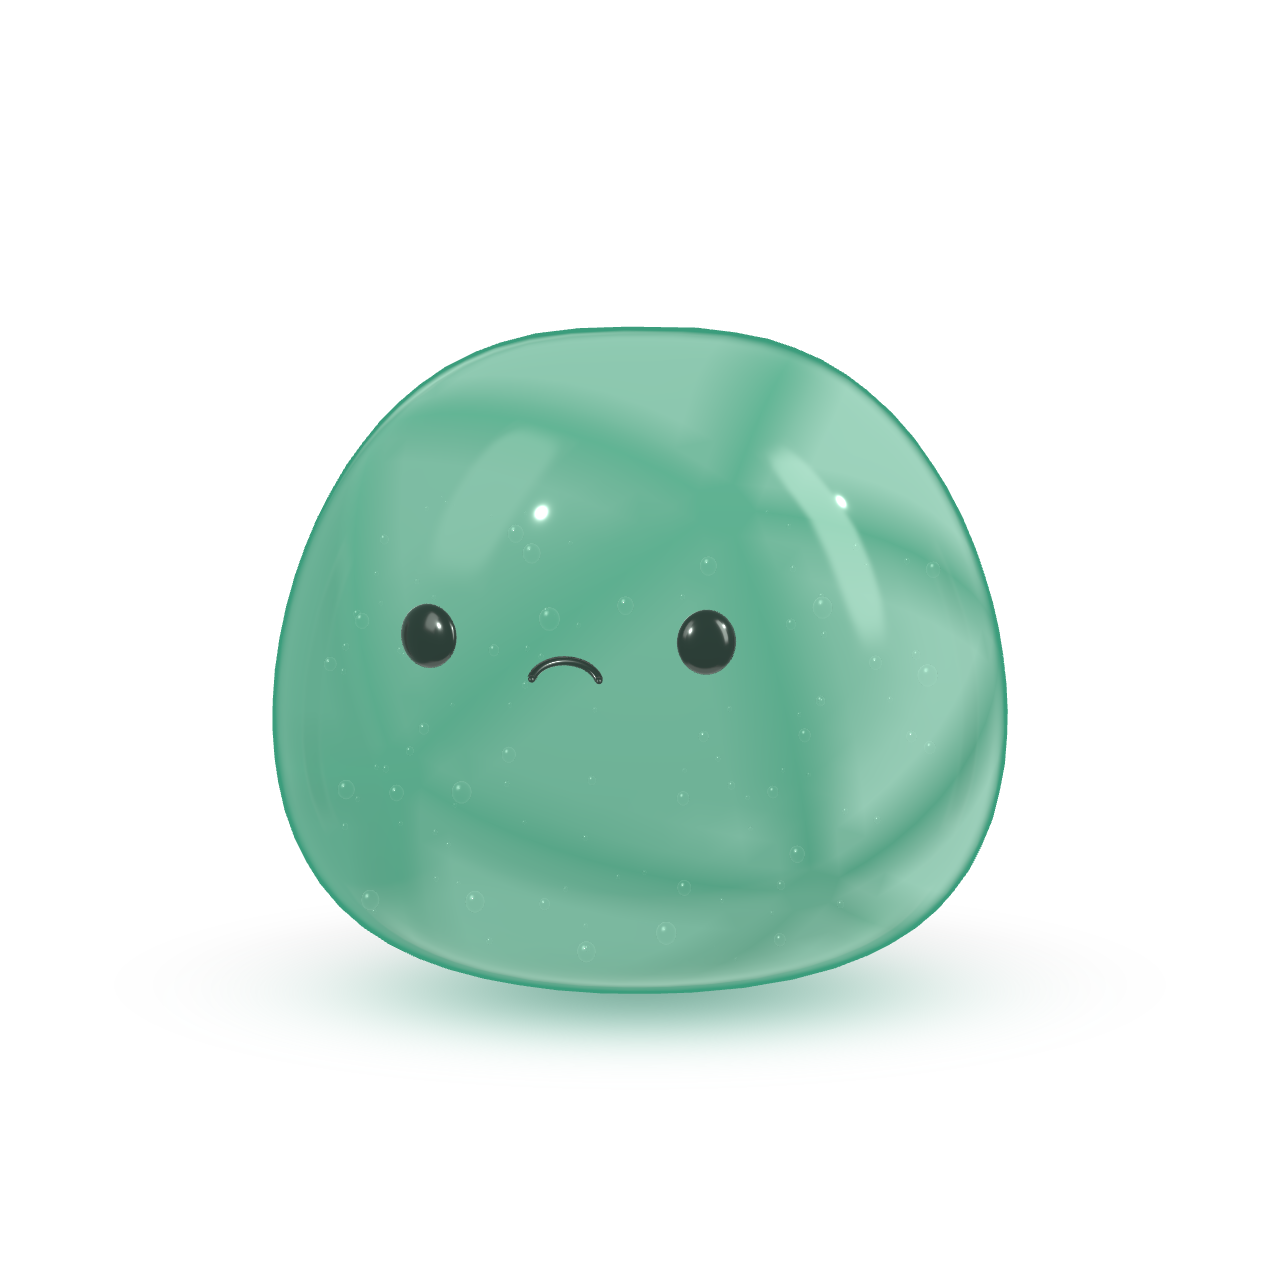
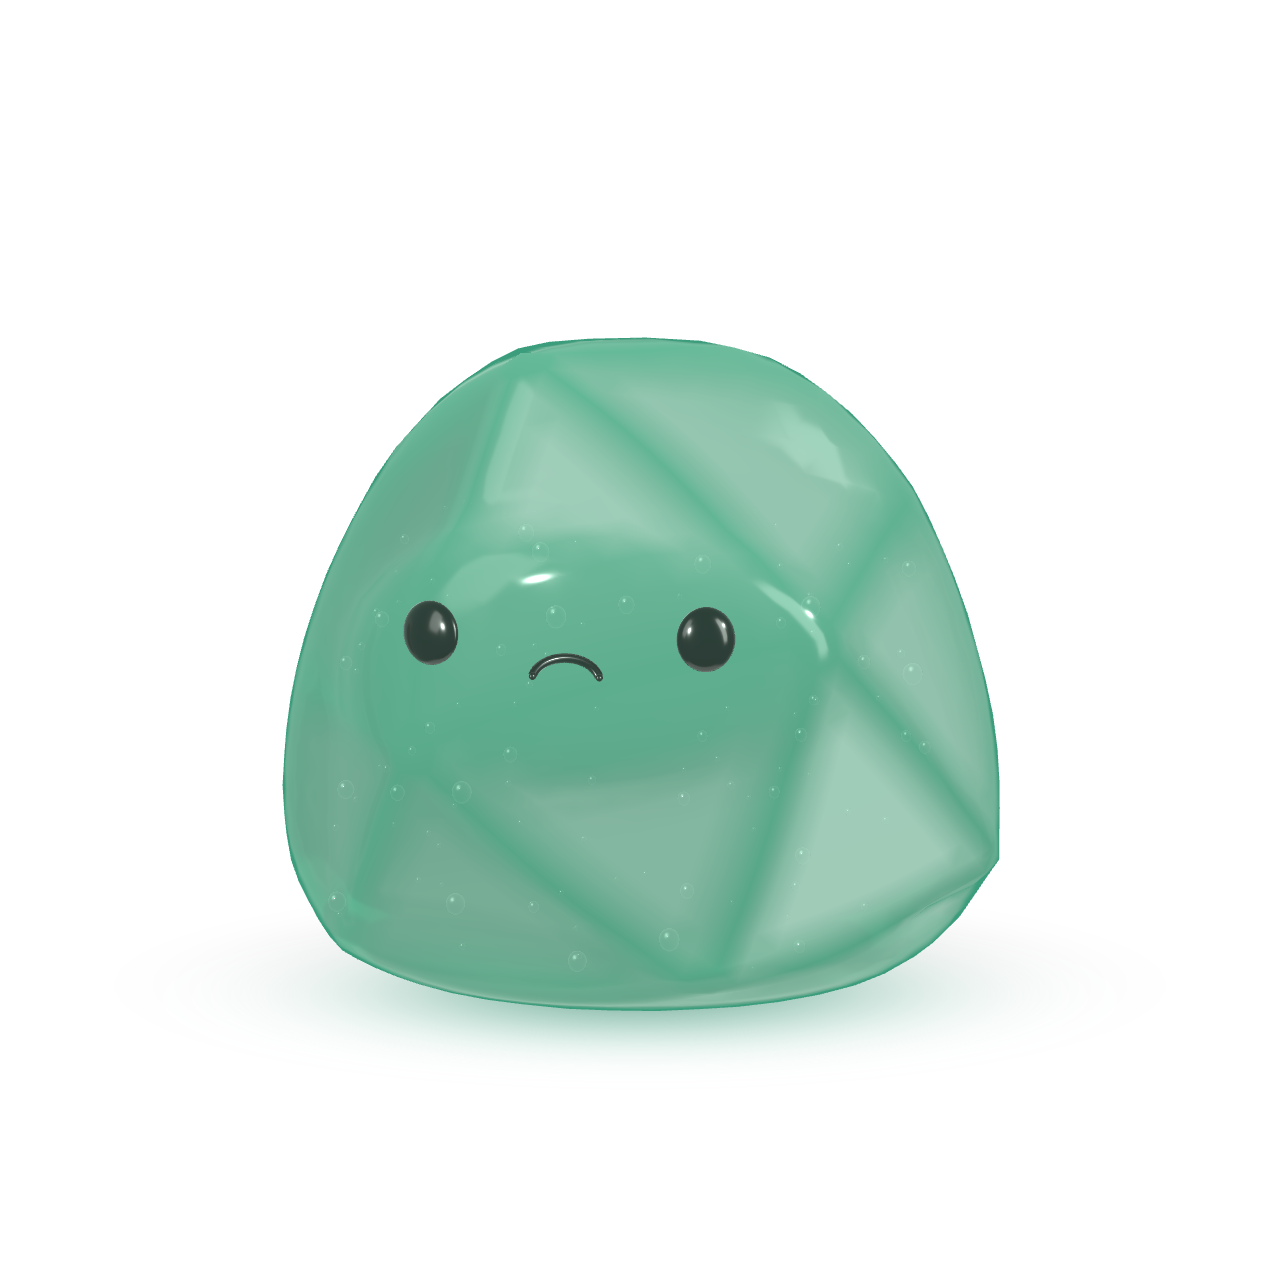
feat(web): sculpt Apo with folded sea glass planes

diff --git a/apocalypse-web/src/effects/webgpu/slime/scene.ts b/apocalypse-web/src/effects/webgpu/slime/scene.ts
@@ -35,14 +35,12 @@ import {
   cameraPosition,
   materialColor,
   mix,
-  normalLocal,
   normalView,
   normalWorld,
   pmremTexture,
   positionViewDirection,
   positionWorld,
   reflect,
-  transformNormalToView,
   uniform,
   vec3,
   vec4,
@@ -62,7 +60,6 @@ import {
   radiusAt,
   restPoint,
   seededRandom,
-  type Point3,
 } from './shape'
 import { createStudio } from './studio'
 import type { OrbState } from '@/effects/PixelOrb/types'
@@ -77,6 +74,19 @@ function scatteringColour(colours: SlimeColours) {
 }
 
 const restVertices = new WeakMap<BufferGeometry, Float32Array>()
+// Front cage faces: crown, shoulders and lower folds frame one calm facial panel.
+const panelTones: Record<number, number> = {
+  0: 0.76,
+  1: 0.63,
+  4: 0.26,
+  5: 0.62,
+  6: 0.49,
+  7: 0.29,
+  10: 0.72,
+  11: 0.4,
+  15: 0.82,
+  16: 0.33,
+}
 function remember(geometry: BufferGeometry) {
   restVertices.set(geometry, Float32Array.from(geometry.attributes.position.array))
   const attribute = geometry.attributes.position
@@ -85,20 +95,17 @@ function remember(geometry: BufferGeometry) {
 }
 
 function makeBody() {
-  // The design has a smooth silhouette and a few broad optical planes. Keep
-  // the elastic surface continuous, then blend coarse facet normals across
-  // rounded boundaries. Displacing whole triangles created visible ridges.
+  // The coarse cage defines the folded planes; its subdivisions round the
+  // joins while retaining continuous vertices for the shared soft-body field.
   const source = new IcosahedronGeometry(1, 0)
   source.rotateY(0.37)
-  source.rotateZ(0.19)
+  source.rotateZ(-0.28)
   const sourcePositions = source.getAttribute('position')
   const sourceIndices = source.getIndex()
   const positions: number[] = []
   const indices: number[] = []
   const blends: number[] = []
   const tones: number[] = []
-  const owners: number[] = []
-  const corners: [Point3, Point3, Point3][] = []
   const shared = new Map<string, number>()
   const subdivisions = 12
   const smoothstep = (a: number, b: number, x: number) => {
@@ -121,7 +128,6 @@ function makeBody() {
     const pa = restPoint(a.x, a.y, a.z)
     const pb = restPoint(b.x, b.y, b.z)
     const pc = restPoint(c.x, c.y, c.z)
-    corners.push([pa, pb, pc])
     const planeNormal = new Vector3(pb.x - pa.x, pb.y - pa.y, pb.z - pa.z)
       .cross(new Vector3(pc.x - pa.x, pc.y - pa.y, pc.z - pa.z))
       .normalize()
@@ -132,7 +138,7 @@ function makeBody() {
       0
     )
       planeNormal.negate()
-    const tone = Math.max(0.08, Math.min(0.92, 0.48 + planeNormal.x * 0.34 + planeNormal.y * 0.1))
+    const tone = panelTones[face] ?? Math.max(0.16, Math.min(0.84, 0.48 + planeNormal.x * 0.28))
     const rows: number[][] = []
     for (let i = 0; i <= subdivisions; i++) {
       const row: number[] = []
@@ -145,20 +151,24 @@ function makeBody() {
           .addScaledVector(b, wb)
           .addScaledVector(c, wc)
           .normalize()
-        const point = restPoint(direction.x, direction.y, direction.z)
+        const smooth = restPoint(direction.x, direction.y, direction.z)
+        const faceDistance = Math.hypot((smooth.x - FACE_X) / 1.04, (smooth.y - 1.55) / 0.55)
+        const faceClearance = 1 - 0.9 * (1 - smoothstep(0.7, 1.26, faceDistance))
+        const frontFold = 0.2 + 0.8 * smoothstep(0.02, 0.46, smooth.z)
+        const fold = 0.68 * frontFold * faceClearance * smoothstep(0.06, 0.36, smooth.y)
+        const point = {
+          x: smooth.x + (pa.x * wa + pb.x * wb + pc.x * wc - smooth.x) * fold,
+          y: smooth.y + (pa.y * wa + pb.y * wb + pc.y * wc - smooth.y) * fold,
+          z: smooth.z + (pa.z * wa + pb.z * wb + pc.z * wc - smooth.z) * fold,
+        }
         const key = [point.x, point.y, point.z].map((value) => Math.round(value * 1e5)).join(',')
         let index = shared.get(key)
         if (index === undefined) {
           index = positions.length / 3
           shared.set(key, index)
           positions.push(point.x, point.y, point.z)
-          owners.push(face)
           tones.push(tone)
-          const faceDistance = Math.hypot(point.x / 0.95, (point.y - 1.48) / 0.6)
-          const faceClearance =
-            point.z > 0.55 ? 0.55 * (1 - smoothstep(0.8, 1.25, faceDistance)) : 0
-          const edge = smoothstep(0, 0.18, Math.min(wa, wb, wc))
-          blends.push(edge * (1 - faceClearance) * smoothstep(0.08, 0.42, point.y) * 0.9)
+          blends.push(fold * smoothstep(0, 0.16, Math.min(wa, wb, wc)))
         }
         row.push(index)
       }
@@ -175,14 +185,11 @@ function makeBody() {
   source.dispose()
   const geometry = new BufferGeometry()
   geometry.setAttribute('position', new Float32BufferAttribute(positions, 3))
-  const facetNormal = new Float32BufferAttribute(new Float32Array(positions.length), 3)
-  facetNormal.setUsage(DynamicDrawUsage)
-  geometry.setAttribute('facetNormal', facetNormal)
   geometry.setAttribute('facetBlend', new Float32BufferAttribute(blends, 1))
   geometry.setAttribute('facetShade', new Float32BufferAttribute(tones, 1))
   geometry.setIndex(indices)
   geometry.computeVertexNormals()
-  return { geometry: remember(geometry), corners, owners }
+  return remember(geometry)
 }
 
 // Sculpted surface patches, not rigid eye meshes. Every point uses the body field.
@@ -252,28 +259,24 @@ function makeSlime(physics: JellyPhysics, environment: Texture, colours: SlimeCo
     ior: SLIME_RECIPE.ior,
     attenuationColor: colours.attenuation.clone(),
     attenuationDistance: SLIME_RECIPE.attenuationDistance,
-    clearcoat: 0.75,
-    clearcoatRoughness: 0.055,
-    specularIntensity: 0.7,
-    envMapIntensity: 0.8,
+    clearcoat: 0.62,
+    clearcoatRoughness: 0.12,
+    specularIntensity: 0.58,
+    envMapIntensity: 0.7,
   })
   const tint = uniform(gel.attenuationColor)
-  const facetDark = uniform(colours.attenuation.clone().lerp(colours.shadow, 0.25))
-  const facetLight = uniform(colours.body.clone().lerp(colours.light, 0.55))
+  const facetDark = uniform(colours.attenuation.clone().lerp(colours.shadow, 0.47))
+  const facetLight = uniform(colours.body.clone().lerp(colours.light, 0.7))
   const scattering = uniform(scatteringColour(colours))
   const stageTint = uniform(colours.stage.clone())
   const facing = normalView.dot(positionViewDirection).abs().clamp(0, 1)
   const facetBlend = attribute('facetBlend', 'float')
   const facetColour = mix(facetDark, facetLight, attribute('facetShade', 'float'))
-  gel.colorNode = mix(
-    materialColor,
-    facetColour,
-    (facetBlend as unknown as Node<'float'>).mul(0.65),
-  )
+  gel.colorNode = mix(materialColor, facetColour, (facetBlend as unknown as Node<'float'>).mul(0.8))
   gel.attenuationColorNode = mix(
     tint,
     facetColour,
-    (facetBlend as unknown as Node<'float'>).mul(0.65),
+    (facetBlend as unknown as Node<'float'>).mul(0.8),
   )
   gel.emissiveNode = scattering
 
@@ -288,59 +291,15 @@ function makeSlime(physics: JellyPhysics, environment: Texture, colours: SlimeCo
     // NodeMaterial output is RGBA; upstream declarations erase its vector dimension.
     const rgba = outputNode as Node<'vec4'>
     const rimmed = mix(rgba, vec4(candy, rgba.a), limb)
-    const opticalPlane = (facetBlend as unknown as Node<'float'>).mul(0.65).mul(limb.oneMinus())
+    const opticalPlane = (facetBlend as unknown as Node<'float'>).mul(0.72).mul(limb.oneMinus())
     const faceted = vec4(mix(rimmed.rgb, facetColour, opticalPlane), rimmed.a)
     return setupOutput(builder, faceted)
   }
-  gel.normalNode = transformNormalToView(
-    mix(
-      normalLocal,
-      attribute('facetNormal', 'vec3'),
-      (facetBlend as unknown as Node<'float'>).mul(0.03),
-    ).normalize(),
-  )
-  gel.clearcoatNormalNode = gel.normalNode
-  const facetedBody = makeBody()
-  const body = new Mesh(facetedBody.geometry, gel)
+  const body = new Mesh(makeBody(), gel)
   body.geometry.boundingSphere = new Sphere(new Vector3(0, 1.2, 0), 6)
   body.name = 'deformable-gel'
   body.frustumCulled = false
   group.add(body)
-  const facetAttribute = body.geometry.getAttribute('facetNormal')
-  const facetNormals = facetedBody.corners.map(() => new Vector3())
-  const fa: Point3 = { x: 0, y: 0, z: 0 }
-  const fb: Point3 = { x: 0, y: 0, z: 0 }
-  const fc: Point3 = { x: 0, y: 0, z: 0 }
-  const updateFacetNormals = () => {
-    for (let i = 0; i < facetedBody.corners.length; i++) {
-      const [a, b, c] = facetedBody.corners[i]
-      physics.deform(a.x, a.y, a.z, fa)
-      physics.deform(b.x, b.y, b.z, fb)
-      physics.deform(c.x, c.y, c.z, fc)
-      const normal = facetNormals[i]
-      normal.set(fb.x - fa.x, fb.y - fa.y, fb.z - fa.z)
-      const edgeX = fc.x - fa.x
-      const edgeY = fc.y - fa.y
-      const edgeZ = fc.z - fa.z
-      normal
-        .set(
-          normal.y * edgeZ - normal.z * edgeY,
-          normal.z * edgeX - normal.x * edgeZ,
-          normal.x * edgeY - normal.y * edgeX,
-        )
-        .normalize()
-      const centerX = (fa.x + fb.x + fc.x) / 3
-      const centerY = (fa.y + fb.y + fc.y) / 3 - 1.4
-      const centerZ = (fa.z + fb.z + fc.z) / 3
-      if (normal.x * centerX + normal.y * centerY + normal.z * centerZ < 0) normal.negate()
-    }
-    for (let i = 0; i < facetedBody.owners.length; i++) {
-      const normal = facetNormals[facetedBody.owners[i]]
-      facetAttribute.setXYZ(i, normal.x, normal.y, normal.z)
-    }
-    facetAttribute.needsUpdate = true
-  }
-  updateFacetNormals()
 
   // Render the rear interface into the transmission buffer. The front glass then
   // refracts its reflections, rather than only sampling the featureless page color.
@@ -494,8 +453,8 @@ function makeSlime(physics: JellyPhysics, environment: Texture, colours: SlimeCo
       gel.color.copy(c.body)
       gel.attenuationColor.copy(c.attenuation)
       scattering.value.copy(scatteringColour(c))
-      facetDark.value.copy(c.attenuation).lerp(c.shadow, 0.25)
-      facetLight.value.copy(c.body).lerp(c.light, 0.55)
+      facetDark.value.copy(c.attenuation).lerp(c.shadow, 0.47)
+      facetLight.value.copy(c.body).lerp(c.light, 0.7)
       stageTint.value.copy(c.stage)
       black.color.copy(c.face)
       bubbleMaterial.color.copy(c.body).lerp(c.light, 0.65)
@@ -543,7 +502,6 @@ function makeSlime(physics: JellyPhysics, environment: Texture, colours: SlimeCo
         geometry.boundingSphere = null
         geometry.boundingBox = null
       }
-      updateFacetNormals()
       for (let i = 0; i < count; i++) {
         const b = bubbleSeeds[i]
         bubblePoint(b, time, bubbleP)

diff --git a/apocalypse-web/src/effects/webgpu/slime/shape.ts b/apocalypse-web/src/effects/webgpu/slime/shape.ts
@@ -9,6 +9,8 @@ export const BODY_WIDTH = 1.56
 export const BODY_DEPTH = 1.18
 export const BODY_TOP = 2.785
 export const FACE_X = -0.28
+// Compress the lower meridians into a broad resting foot and taper the crown.
+const HEIGHT_CURVE = 1.65
 
 export function restPoint(nx: number, ny: number, nz: number): Point3 {
   const theta = Math.acos(Math.max(-1, Math.min(1, ny)))
@@ -17,13 +19,13 @@ export function restPoint(nx: number, ny: number, nz: number): Point3 {
   const scale = radial > 0.00001 ? radius / radial : 0
   return {
     x: nx * BODY_WIDTH * scale,
-    y: 0.035 + 2.75 * ((ny + 1) / 2) ** 1.18,
+    y: 0.035 + 2.75 * ((ny + 1) / 2) ** HEIGHT_CURVE,
     z: nz * BODY_DEPTH * scale,
   }
 }
 
 export function radiusAt(y: number) {
-  const t = Math.max(0, Math.min(1, (y - 0.035) / 2.75)) ** (1 / 1.18)
+  const t = Math.max(0, Math.min(1, (y - 0.035) / 2.75)) ** (1 / HEIGHT_CURVE)
   const c = t * 2 - 1
   return Math.sqrt(Math.max(0, 1 - c * c)) ** 0.72 * (1 - 0.07 * c)
 }

diff --git a/apocalypse-web/src/effects/webgpu/slime/shape.test.ts b/apocalypse-web/src/effects/webgpu/slime/shape.test.ts
@@ -1,0 +1,16 @@
+import { expect, test } from 'vitest'
+import { frontSurfaceZ, radiusAt, restPoint } from './shape'
+
+test('the wide lower body and face anchors share one continuous skin', () => {
+  expect(radiusAt(0.35)).toBeGreaterThan(radiusAt(2.45) * 1.4)
+
+  for (const [x, y, z] of [
+    [-0.5, -0.7, 0.51],
+    [0.25, 0.1, 0.96],
+    [0.6, 0.55, 0.58],
+  ]) {
+    const length = Math.hypot(x, y, z)
+    const skin = restPoint(x / length, y / length, z / length)
+    expect(skin.z).toBeCloseTo(frontSurfaceZ(skin.x, skin.y), 6)
+  }
+})
